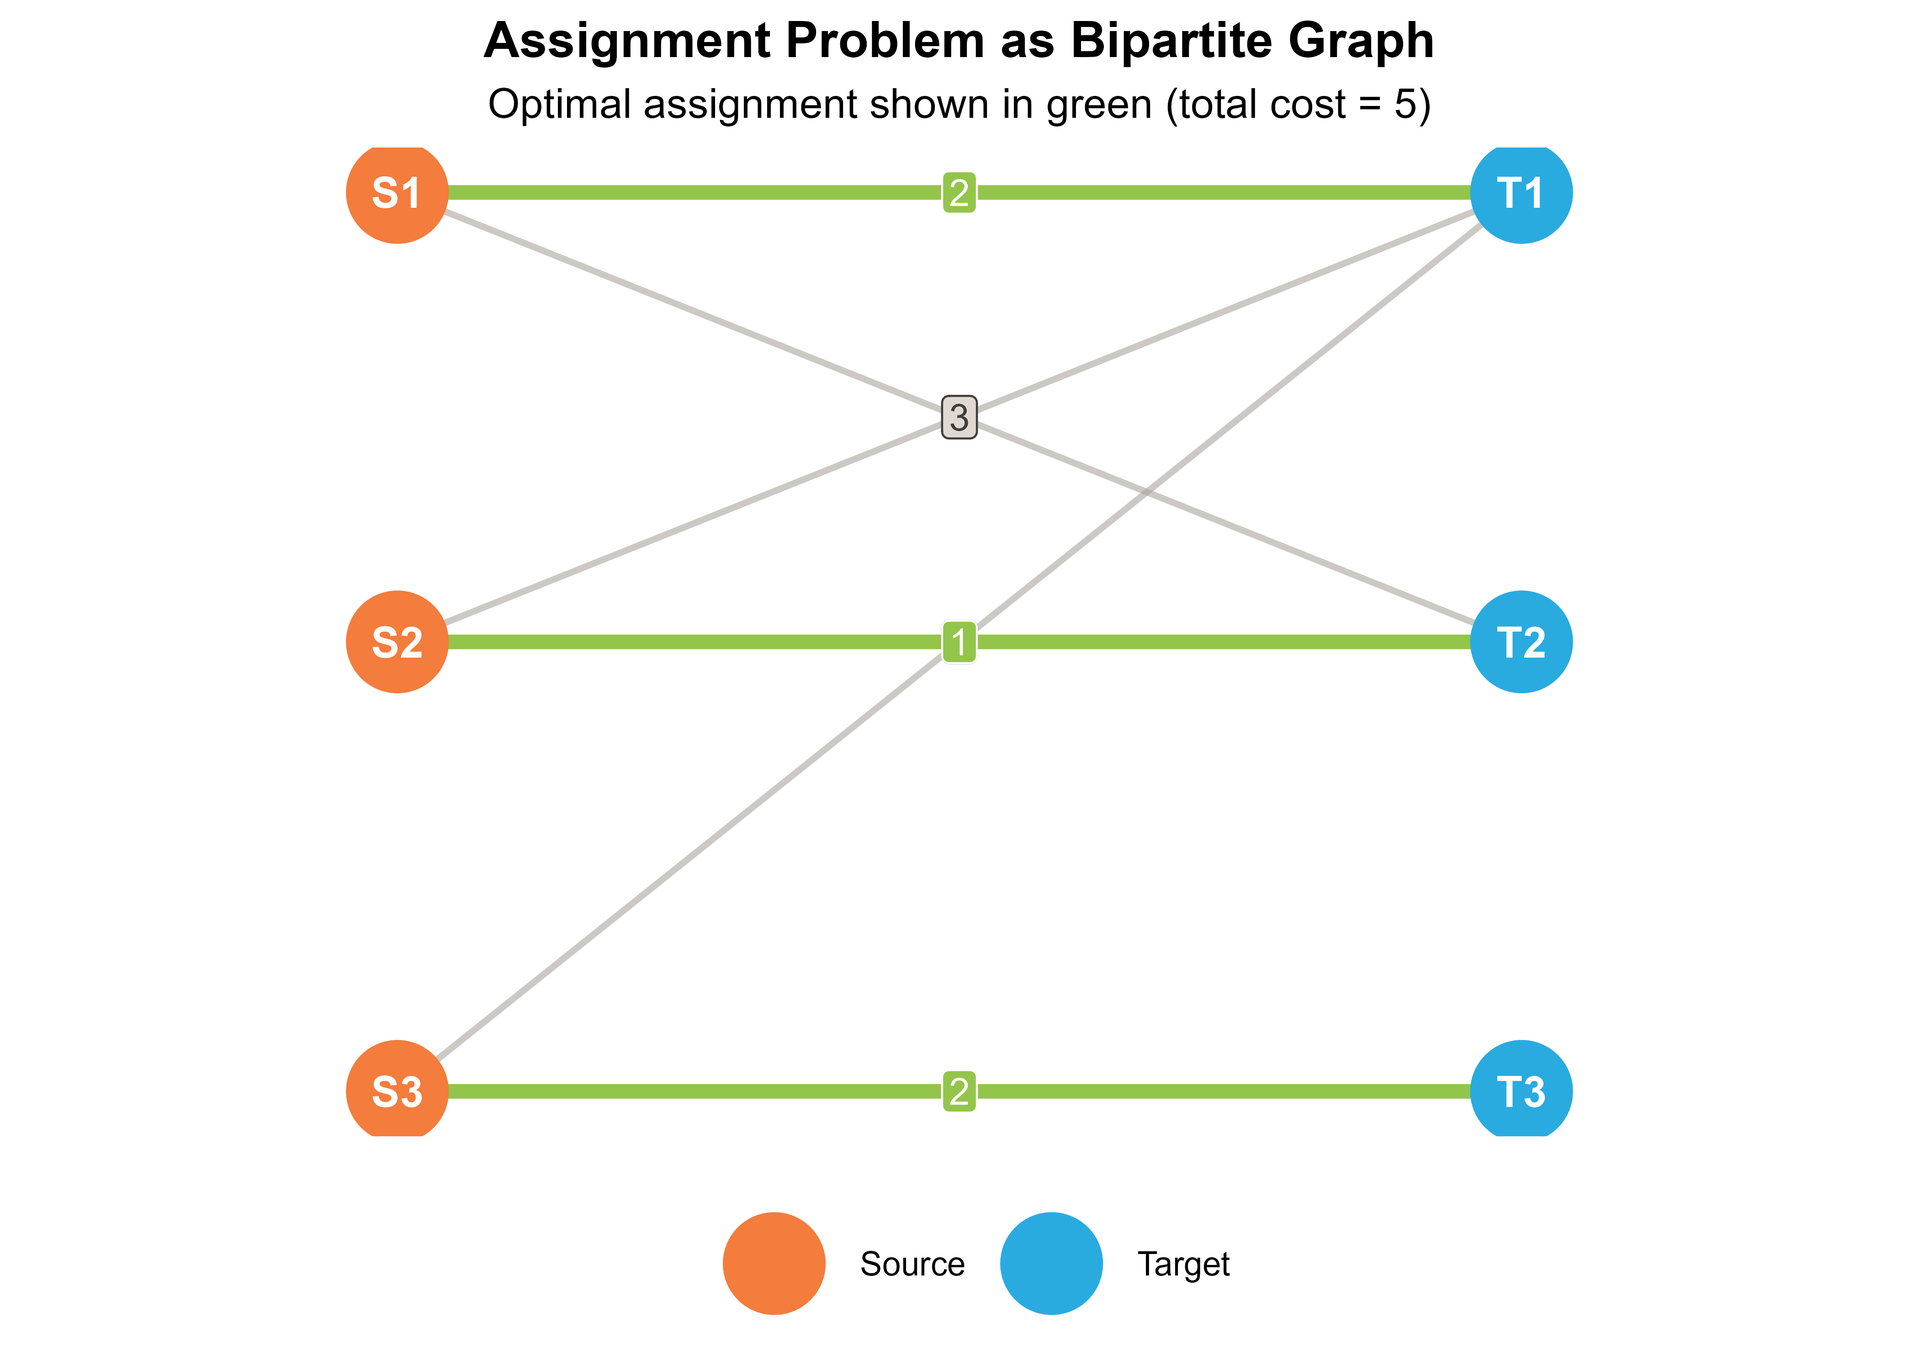
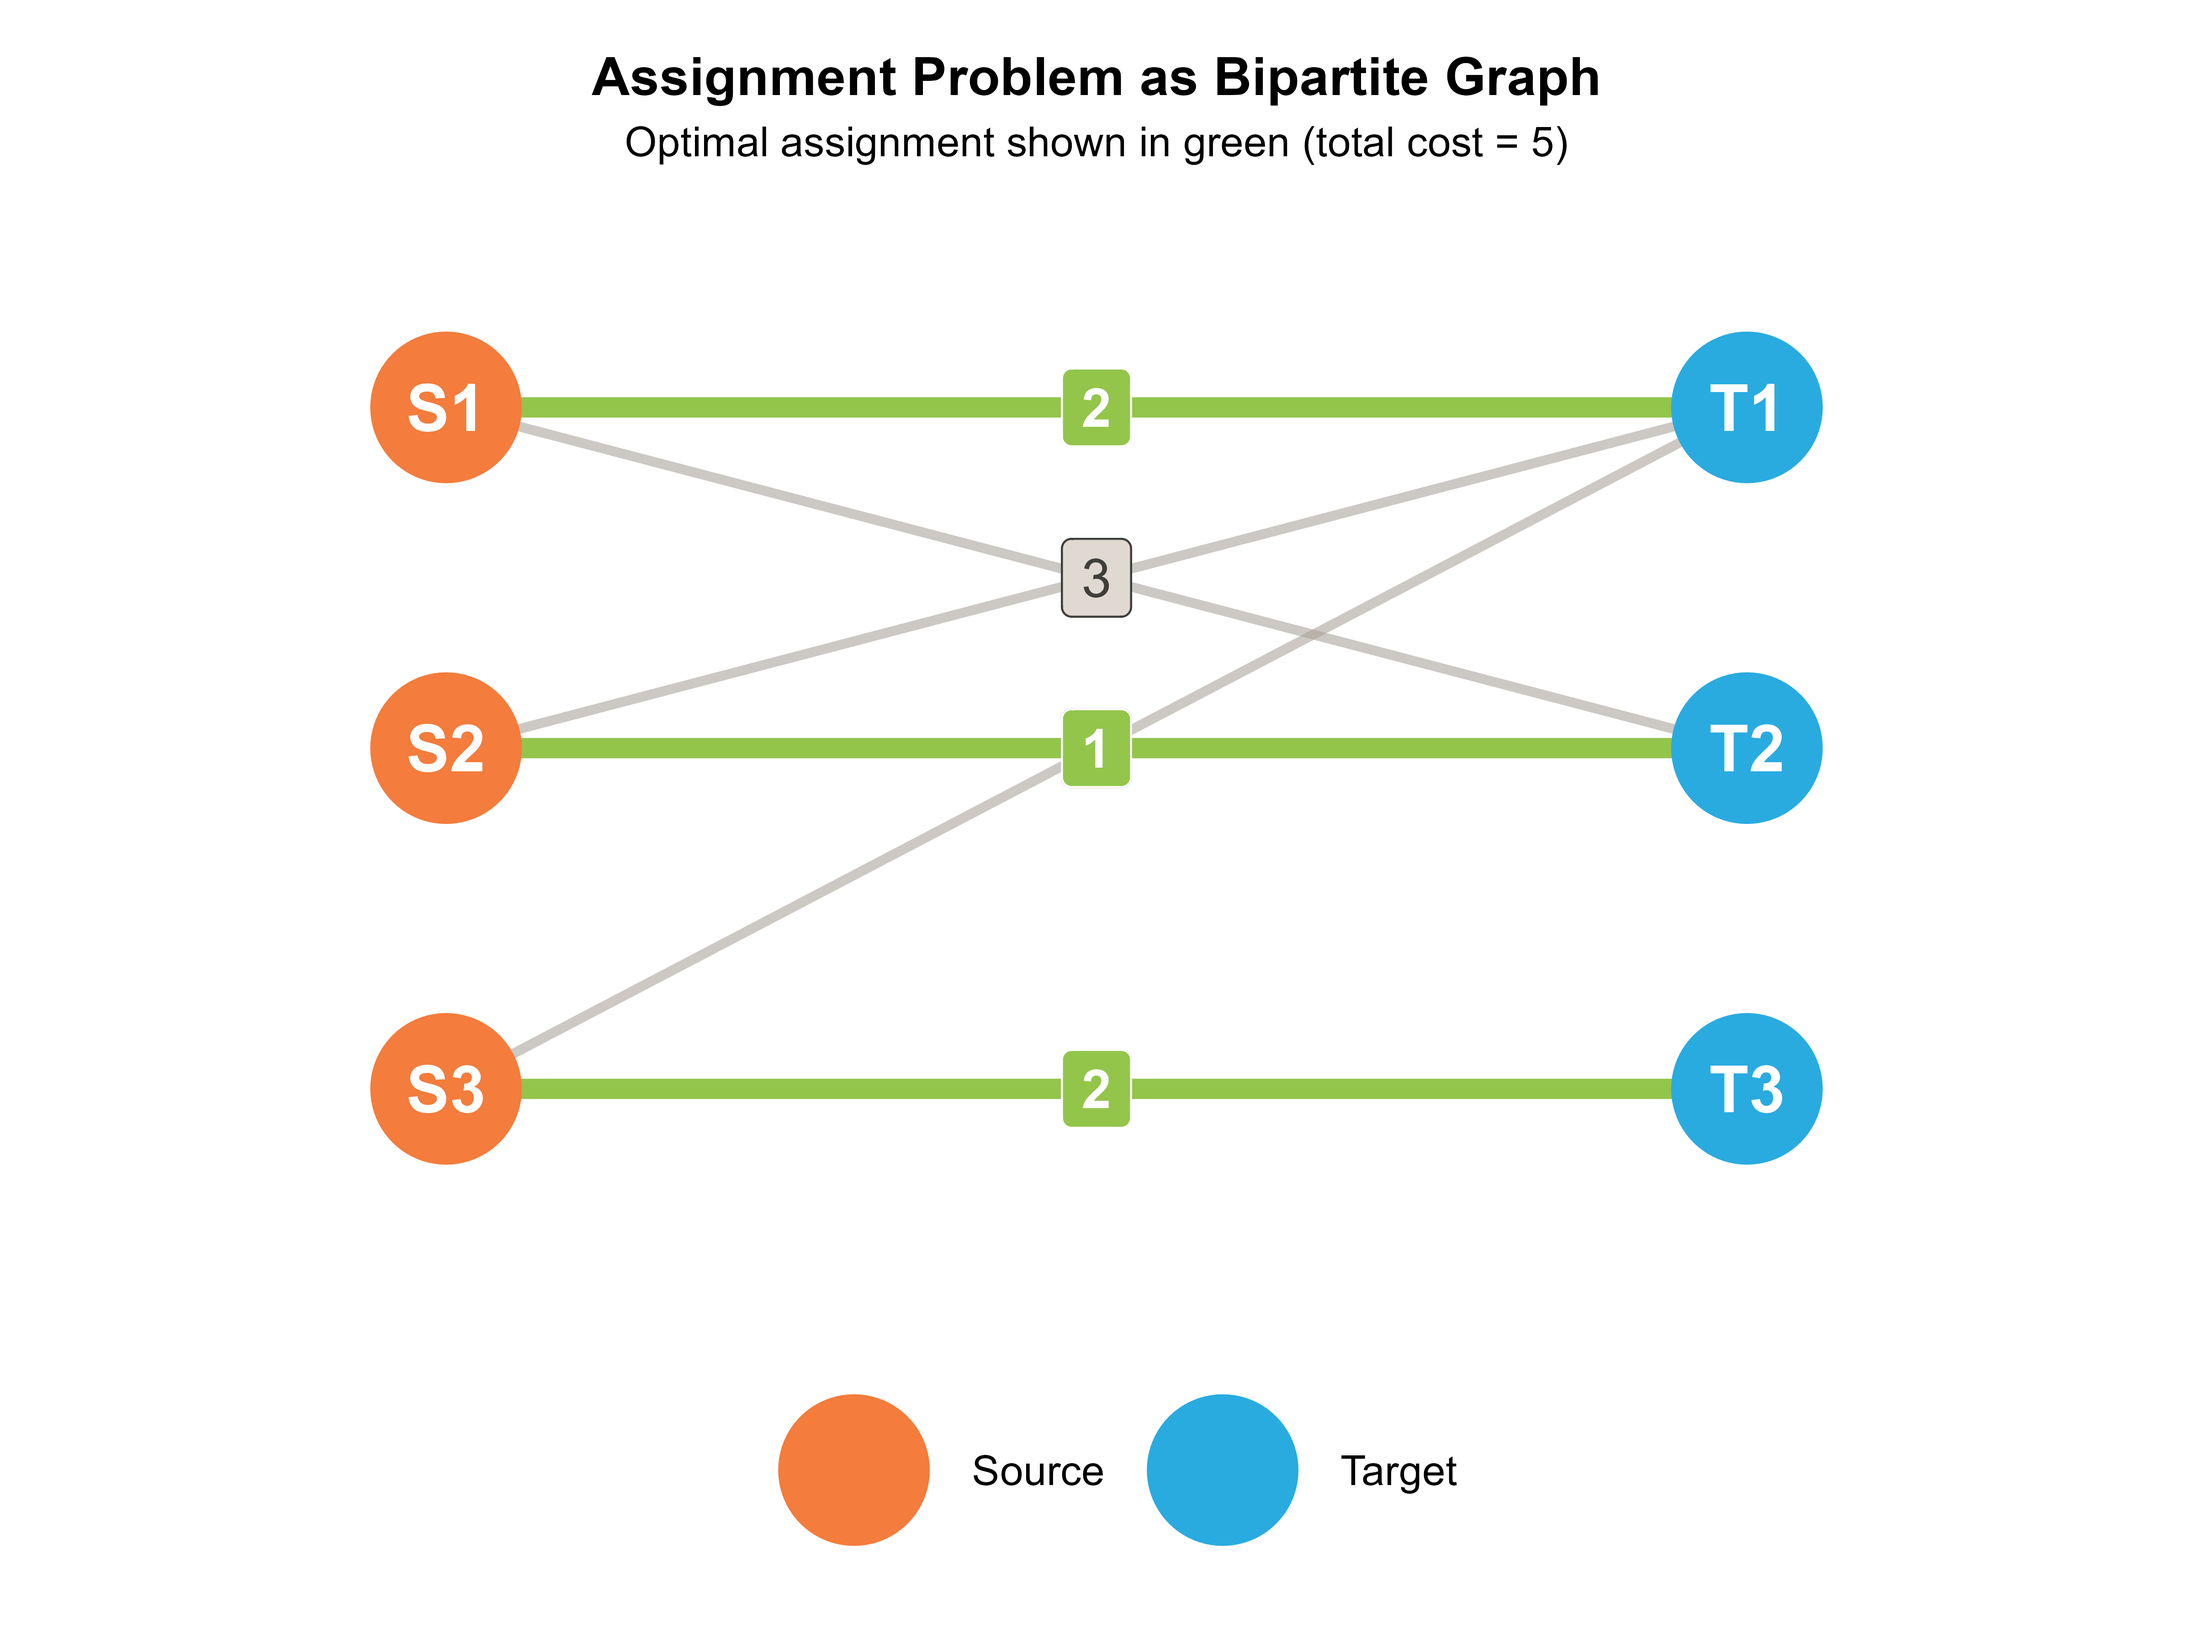
Improve algorithm vignette figures and remove svglite
- Enlarge bipartite graph and decision flowchart for readability
- Increase node sizes, text sizes, and add padding
- Remove svglite from Suggests (using ragg instead)

🤖 Generated with [Claude Code](https://claude.com/claude-code)

diff --git a/docs/articles/algorithms.html b/docs/articles/algorithms.html
@@ -213,7 +213,7 @@ underlies most efficient LAP algorithms.</p>
 </h3>
 <p>The LAP corresponds to finding a minimum-weight perfect matching in a
 weighted bipartite graph:</p>
-<p><img src="algorithms_files/figure-html/bipartite-graph-1.png" class="r-plt" width="2100"></p>
+<p><img src="algorithms_files/figure-html/bipartite-graph-1.png" class="r-plt" width="2400"></p>
 <p>The optimal solution (green edges) assigns S1→T1, S2→T2, S3→T3 with
 total cost 2 + 1 + 2 = 5.</p>
 <hr>
@@ -221,7 +221,7 @@ total cost 2 + 1 + 2 = 5.</p>
 <div class="section level3">
 <h3 id="algorithm-selection-guide">Algorithm Selection Guide<a class="anchor" aria-label="anchor" href="#algorithm-selection-guide"></a>
 </h3>
-<p><img src="algorithms_files/figure-html/decision-flowchart-1.png" class="r-plt" alt="Flowchart showing algorithm selection based on cost matrix properties" width="2400"></p>
+<p><img src="algorithms_files/figure-html/decision-flowchart-1.png" class="r-plt" alt="Flowchart showing algorithm selection based on cost matrix properties" width="2700"></p>
 <div class="section level4">
 <h4 id="quick-reference">Quick Reference<a class="anchor" aria-label="anchor" href="#quick-reference"></a>
 </h4>
